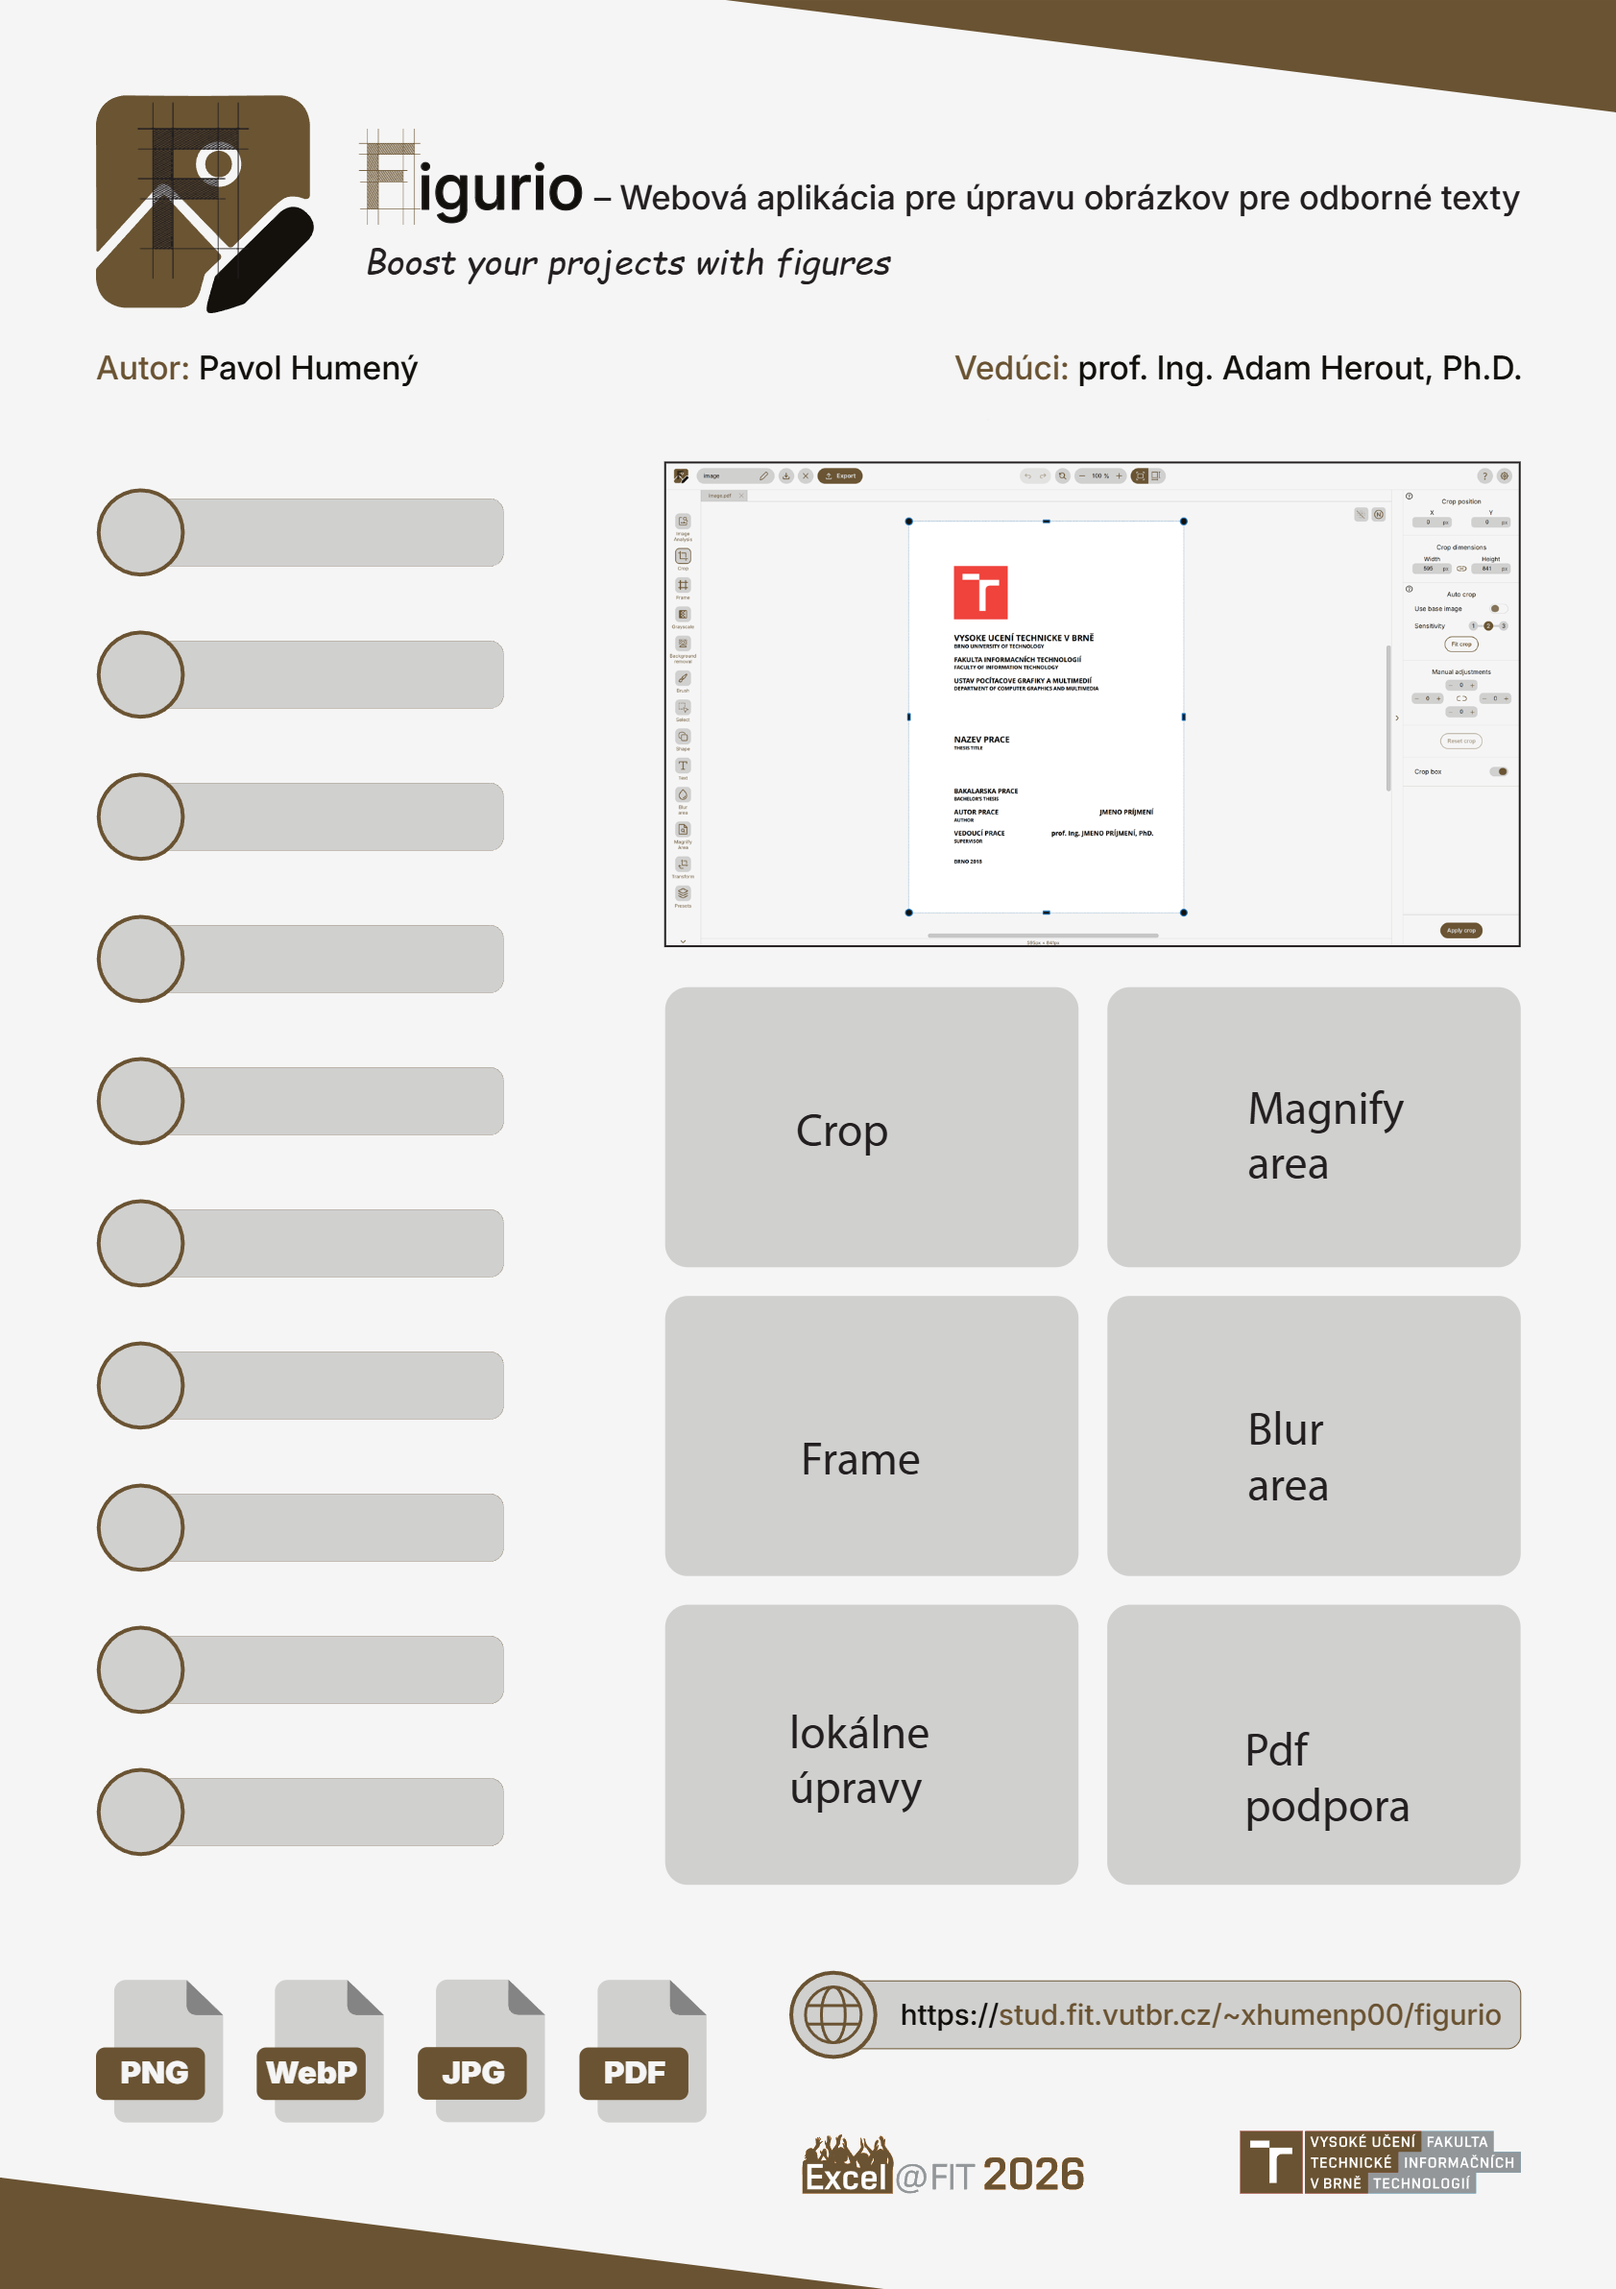
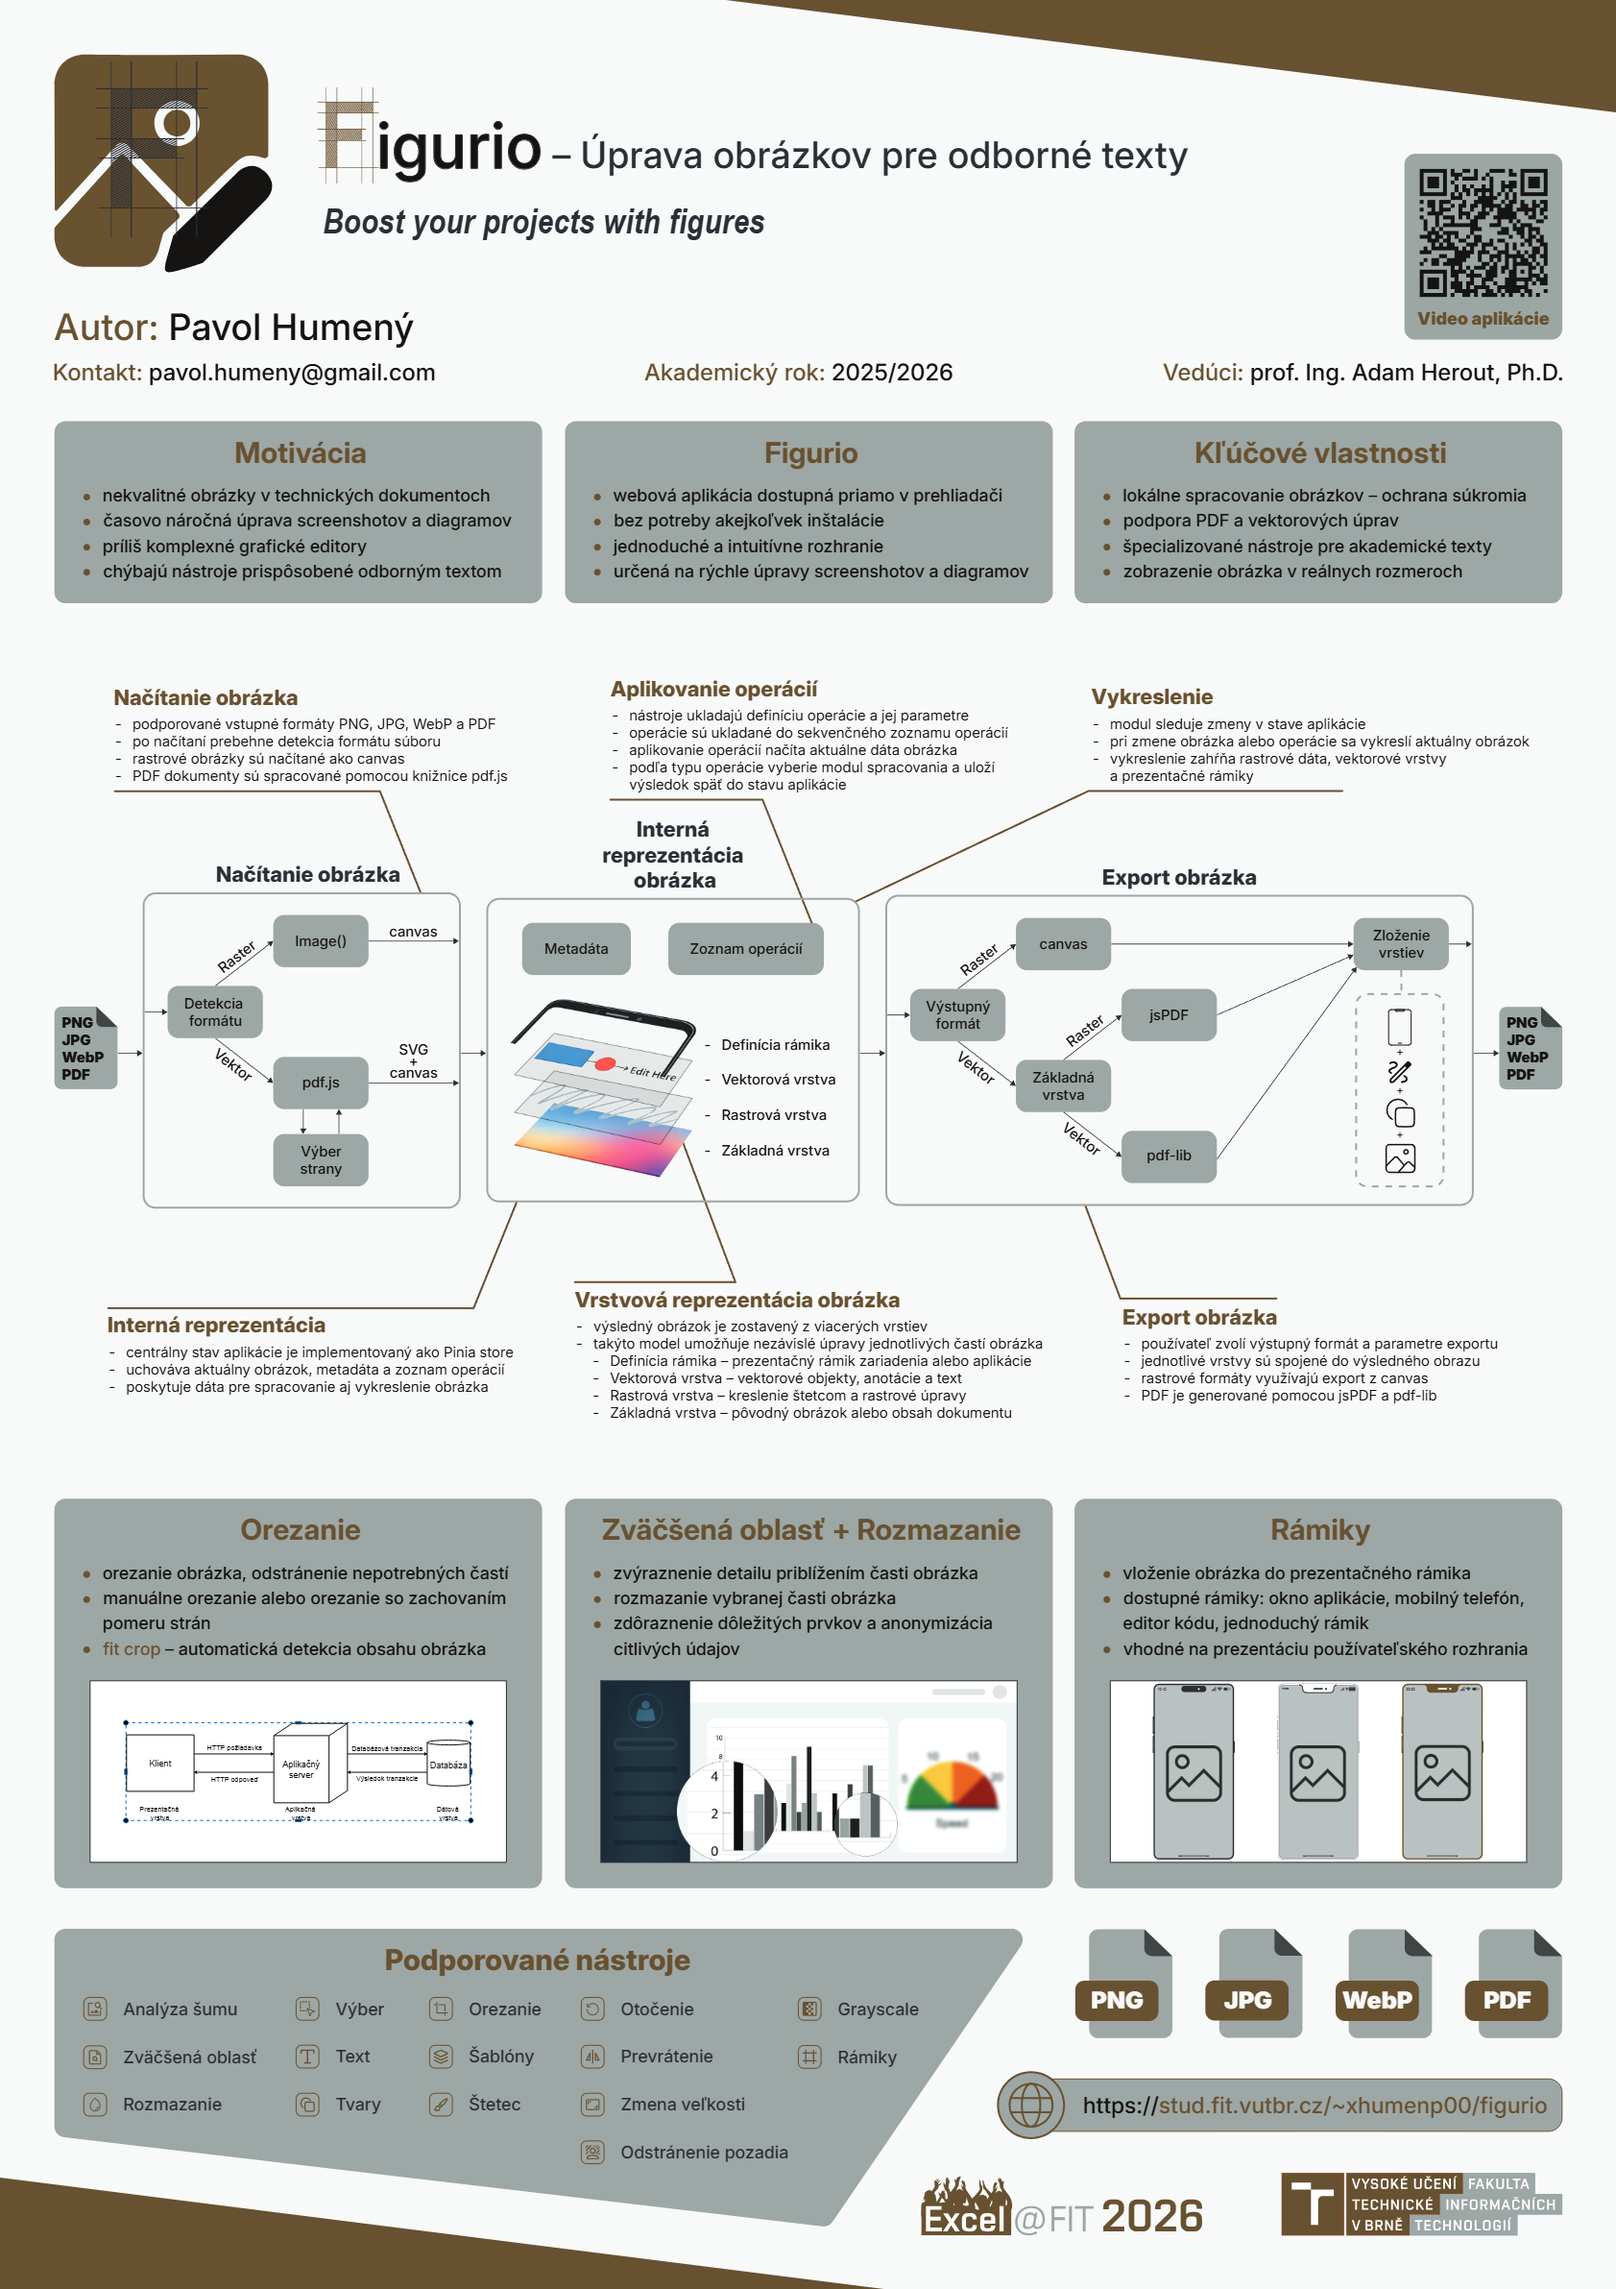
feat: Add video to README

diff --git a/src/components/statistics/AppInstalled.vue b/src/components/statistics/AppInstalled.vue
@@ -1,4 +1,4 @@
-<script setup>
+ma<script setup>
 /**
  * @file: AppInstalled.vue
  * @author: Pavol Humeny

diff --git a/README.md b/README.md
@@ -47,6 +47,18 @@ Projekt bol prezentovaný formou akademického plagátu pripraveného v rámci b
 
 ---
 
+# Prezentačné video
+
+Krátke video predstavujúce funkcionalitu aplikácie:
+
+<p align="center">
+  <a href="https://youtu.be/HltFn-50_eY" target="_blank">
+    <img src="https://img.youtube.com/vi/HltFn-50_eY/0.jpg" alt="Figurio video preview" width="600"/>
+  </a>
+</p>
+
+---
+
 # Motivácia
 
 - Bežné grafické editory sú pre prípravu obrázkov do odborných textov často zbytočne komplexné.  
